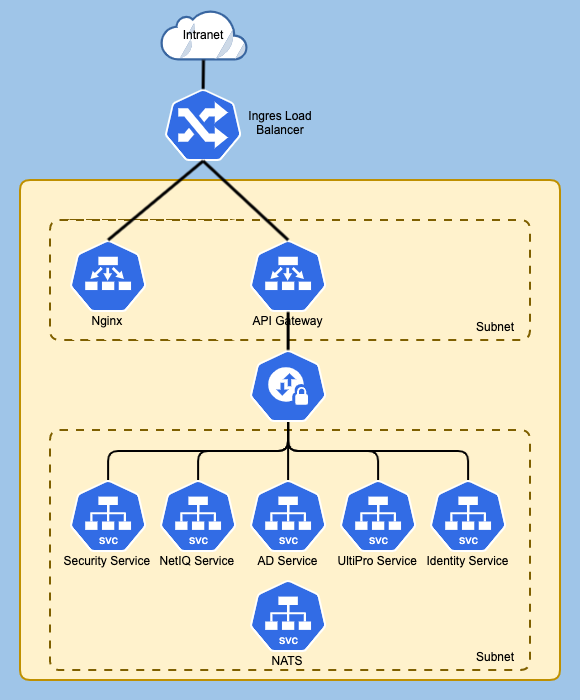
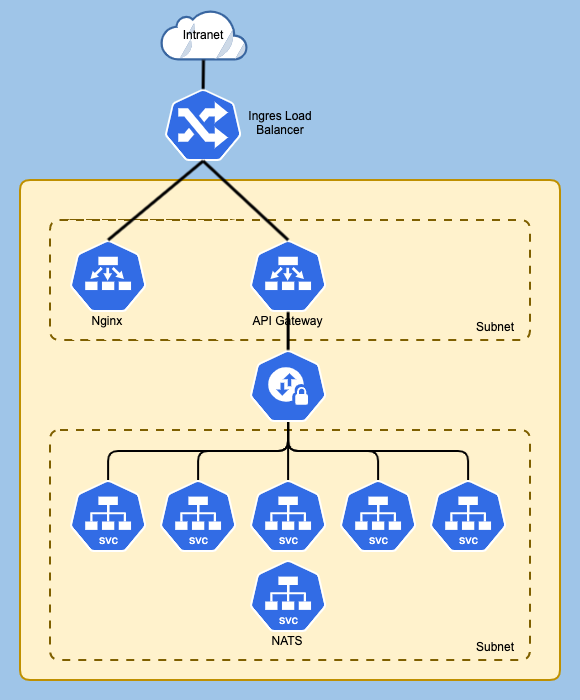
Sanitized copy

Changed region(s): [[0.0621, 0.78, 0.931, 0.96], [0.0931, 0.78, 0.4034, 0.81], [0.5897, 0.78, 0.869, 0.81]]

diff --git a/_posts/2020-11-12-python-microservices.md b/_posts/2020-11-12-python-microservices.md
@@ -23,7 +23,7 @@ These are my takeaways from the project:
 * JOSE (Javascript Object Signing and Encryption) simplifies securing resource servers.
 * NATS is a simpler alternative to messaging services like RabbitMQ.
 
-During design, we chose microservice boundaries that aligned with the application’s backing services. This system aggregates data from Active Directory, NetIQ, and UltiPro, so we built a microservice for each of them. We could have created fine-grained microservices for individual domain contexts, like a facility service, audit service, keywords service, etc.. Given the project budget and the type of application we were replacing, one microservice per backend made the most business sense.
+During design, we chose microservice boundaries that aligned with the application’s backing services. This system aggregates data from several LDAP and MSSQL systems, so we built a microservice for each of them. We could have created fine-grained microservices for individual domain contexts, like a facility service, audit service, keywords service, etc. Given the project budget and the type of application we were replacing, one microservice per backend made the most business sense.
 
 Aside from the syntactical differences between Java and Python, the overall project semantics felt familiar, making for an easy transition. Instead of Spring Web MVC, we used Python Flask, and instead of Spring Data JPA, we used Marshmallow with SQLAlchemy. Rather than having Spring REST Docs and annotation-driven Swagger files, we hand-coded the Swagger YAML files. Python libraries exist that generate Swagger files, but we didn’t have time to add them. We loaded the Swagger file into ng OpenAPI Gen to generate the Angular API clients, something I never tried before. I recommend it. 
 
@@ -49,13 +49,11 @@ Overall, the project was a success, thanks in large part to my teammates at Ahea
 # References
 * <a href="https://www.behance.net/jessjwilliamson/">Python Logo Credit: Jessica Williamson</a>
 * <a href="https://www.thinkahead.com/">Ahead</a>
-* <a href="https://docs.microsoft.com/en-us/windows-server/identity/ad-ds/active-directory-domain-services">Active Directory</a>
 * <a href="https://flask.palletsprojects.com/en/1.1.x/">Flask</a>
 * <a href="https://kubernetes.io/docs/concepts/overview/working-with-objects/namespaces/">Kubernetes Namespace</a>
 * <a href="https://www.nginx.com/products/nginx/kubernetes-ingress-controller/">Kubernetes Nginx</a>
 * <a href="https://kubernetes.io/docs/concepts/services-networking/service/">Kubernetes Service</a>
 * <a href="https://nats.io/">nats.io</a>
-* <a href="https://www.microfocus.com/en-us/products/netiq/overview">NetIQ</a>
 * <a href="https://www.npmjs.com/package/ng-openapi-gen">ng OpenAPI Gen</a>
 * <a href="https://www.pingidentity.com/">Ping Identity</a>
 * <a href="https://python-jose.readthedocs.io/en/latest/">Python JOSE</a>
@@ -65,5 +63,4 @@ Overall, the project was a success, thanks in large part to my teammates at Ahea
 * <a href="https://spring.io/projects/spring-security">Spring Security</a>
 * <a href="https://docs.spring.io/spring-framework/docs/current/reference/html/web.html#spring-web">Spring Web MVC</a>
 * <a href="https://www.sqlalchemy.org/">SQLAlchemy</a>
-* <a href="https://www.ultimatesoftware.com/UltiPro-Services">UltiPro Services</a>
 
